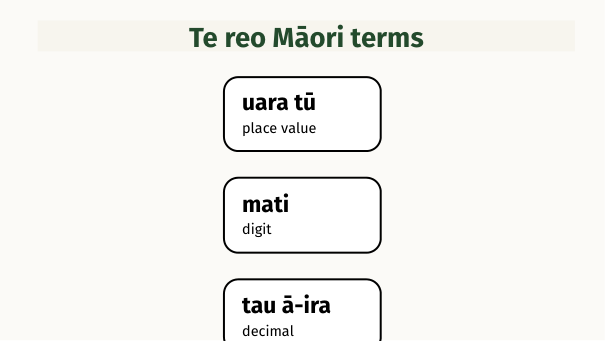
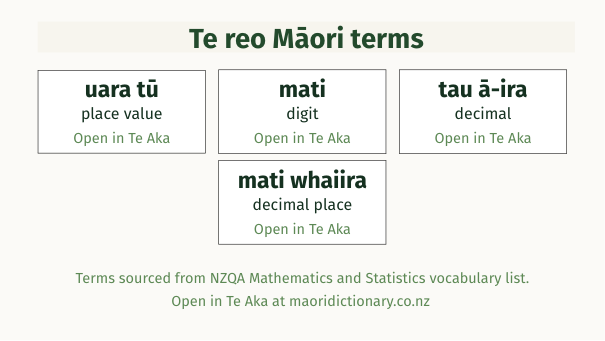
Fix te reo PDF layout: proper 3-column card grid with clickable Te Aka links
- Replaced tcolorbox approach with fcolorbox + minipage for compact sizing
- Template uses \TermCard command: fcolorbox with centered content
- Cards show Māori term (bold Large), English gloss, and Te Aka URL
- 3 per row using \hfill, remainder rows center single/double cards
- No more column-stacking issues or spilled to page 2
- All 4 terms fit on one page

diff --git a/OPERATIONS/scripts/build_te_reo_pdfs.py b/OPERATIONS/scripts/build_te_reo_pdfs.py
@@ -72,29 +72,35 @@ def slug_for_code(code: str, slug_map: dict[str, str]) -> str | None:
 
 
 def build_tex(terms: list[dict]) -> str:
-    """Build LaTeX for the term cards."""
+    """Build LaTeX for the term cards — 3 per row, each with Te Aka link."""
     template = TEMPLATE_PATH.read_text()
+
+    def escape(s: str) -> str:
+        return s.replace("&", r"\&").replace("#", r"\#").replace("%", r"\%").replace("_", r"\_").replace("$", r"\$")
+
     cards = []
-    for term in terms:
-        maori = term.get("te_reo_maori_term", "")
-        english = term.get("english_term", "")
-        # Escape special chars
-        maori_escaped = maori.replace("&", r"\&").replace("#", r"\#").replace("%", r"\%").replace("_", r"\_").replace("$", r"\$")
-        english_escaped = english.replace("&", r"\&").replace("#", r"\#").replace("%", r"\%").replace("_", r"\_").replace("$", r"\$")
-        cards.append(
-            "\\begin{termcard}\n"
-            f"  \\textbf{{\\Large {maori_escaped}}}\\\\[0.3em]\n"
-            f"  {english_escaped}\n"
-            "\\end{termcard}\n"
-            "\\hspace{1em}\n"
-        )
-    # Arrange in rows of 3
+    for t in terms:
+        maori = escape(t.get("te_reo_maori_term", ""))
+        english = escape(t.get("english_term", ""))
+        url = escape(t.get("te_aka_word_url", ""))
+        cards.append(f"\\TermCard{{{maori}}}{{{english}}}{{{url}}}")
+
+    # Arrange 3 per row using \hfill
     rows = []
     for i in range(0, len(cards), 3):
         chunk = cards[i:i+3]
-        row = "".join(chunk)
+        n = len(chunk)
+        if n == 1:
+            # Single card — center it
+            row = "\\hspace*{\\fill}\n" + chunk[0] + "\n\\hspace*{\\fill}"
+        elif n == 2:
+            # Two cards — spread evenly
+            row = "\\hspace*{\\fill}\n" + "\\hfill\n".join(chunk) + "\n\\hspace*{\\fill}"
+        else:
+            row = "\\hfill\n".join(chunk)
         rows.append(row)
-    all_cards_text = "\n\n".join(rows)
+
+    all_cards_text = "\n\n\\vspace{0.3em}\n\n".join(rows)
     latex = template.replace("TERM_CARDS", all_cards_text.strip())
     return latex
 
@@ -113,6 +119,8 @@ def build_te_reo_pdf(slug: str, terms: list[dict]) -> int:
         tex_content = build_tex(terms)
         tex_path = build_dir / "te-reo.tex"
         tex_path.write_text(tex_content)
+        # Debug: save the tex content
+        (build_dir / "debug.tex").write_text(tex_content)
 
         result = subprocess.run(
             [TECTONIC, "-p", "te-reo.tex"],
@@ -150,7 +158,9 @@ doc.close()
             return 1
     finally:
         import shutil
-        shutil.rmtree(build_dir, ignore_errors=True)
+        # Keep build artifacts for debugging:
+        print(f"  Build dir: {build_dir}", file=sys.stderr)
+        # shutil.rmtree(build_dir, ignore_errors=True)
 
 
 def main() -> int:

diff --git a/OPERATIONS/templates/te-reo-template.tex b/OPERATIONS/templates/te-reo-template.tex
@@ -1,6 +1,6 @@
 \documentclass[aspectratio=169,12pt]{beamer}
 \usepackage{amsmath}
-\usepackage[most]{tcolorbox}
+\usepackage{hyperref}
 \usepackage{graphicx}
 \usepackage[sfdefault,lf]{FiraSans}
 \renewcommand{\familydefault}{\sfdefault}
@@ -9,6 +9,8 @@
 \setbeamertemplate{navigation symbols}{}
 \setbeamertemplate{footline}{}
 \setbeamertemplate{headline}{}
+
+\hypersetup{colorlinks=true,urlcolor=mmgreenLeaf}
 
 \definecolor{mmpageWhite}{HTML}{FCFBF7}
 \definecolor{mmtanSoft}{HTML}{F7F5EF}
@@ -20,21 +22,35 @@
 \setbeamercolor{background canvas}{bg=mmpageWhite}
 \setbeamercolor{normal text}{fg=mmtext,bg=mmpageWhite}
 
-\newtcolorbox{termcard}{enhanced,breakable=false,colback=white,colframe=black,boxrule=1.5pt,arc=10pt,left=10pt,right=10pt,top=8pt,bottom=8pt,width=0.3\textwidth,valign=top}
+\newcommand{\TermCard}[3]{%
+  % #1 = maori term, #2 = english gloss, #3 = Te Aka URL
+  \fcolorbox{black}{white}{%
+    \begin{minipage}{0.30\textwidth}
+    \centering
+    \vspace{0.3em}
+    {\bfseries\Large #1\par}
+    \vspace{0.15em}
+    #2\par
+    \vspace{0.3em}
+    \href{#3}{\small\color{mmgreenLeaf} Open in Te Aka}\par
+    \vspace{0.2em}
+    \end{minipage}%
+  }%
+}
 
 \begin{document}
-{\small
 \begin{frame}[t]
 \vspace{0.8em}
 {\colorbox{mmtanSoft}{\parbox{\textwidth}{\centering\bfseries\LARGE\color{mmgreenDeep} Te reo Māori terms}}}
-\vspace{1em}
+\vspace{0.5em}
 
 \centering
 TERM_CARDS
 
 \vfill
-{\color{mmgreenLeaf}\small Terms sourced from NZQA Mathematics and Statistics vocabulary list.
-\normalsize}
-\end{frame}
+{\color{mmgreenLeaf}\small\centering
+Terms sourced from NZQA Mathematics and Statistics vocabulary list.\\[0.2em]
+Open in Te Aka at maoridictionary.co.nz
 }
+\end{frame}
 \end{document}
